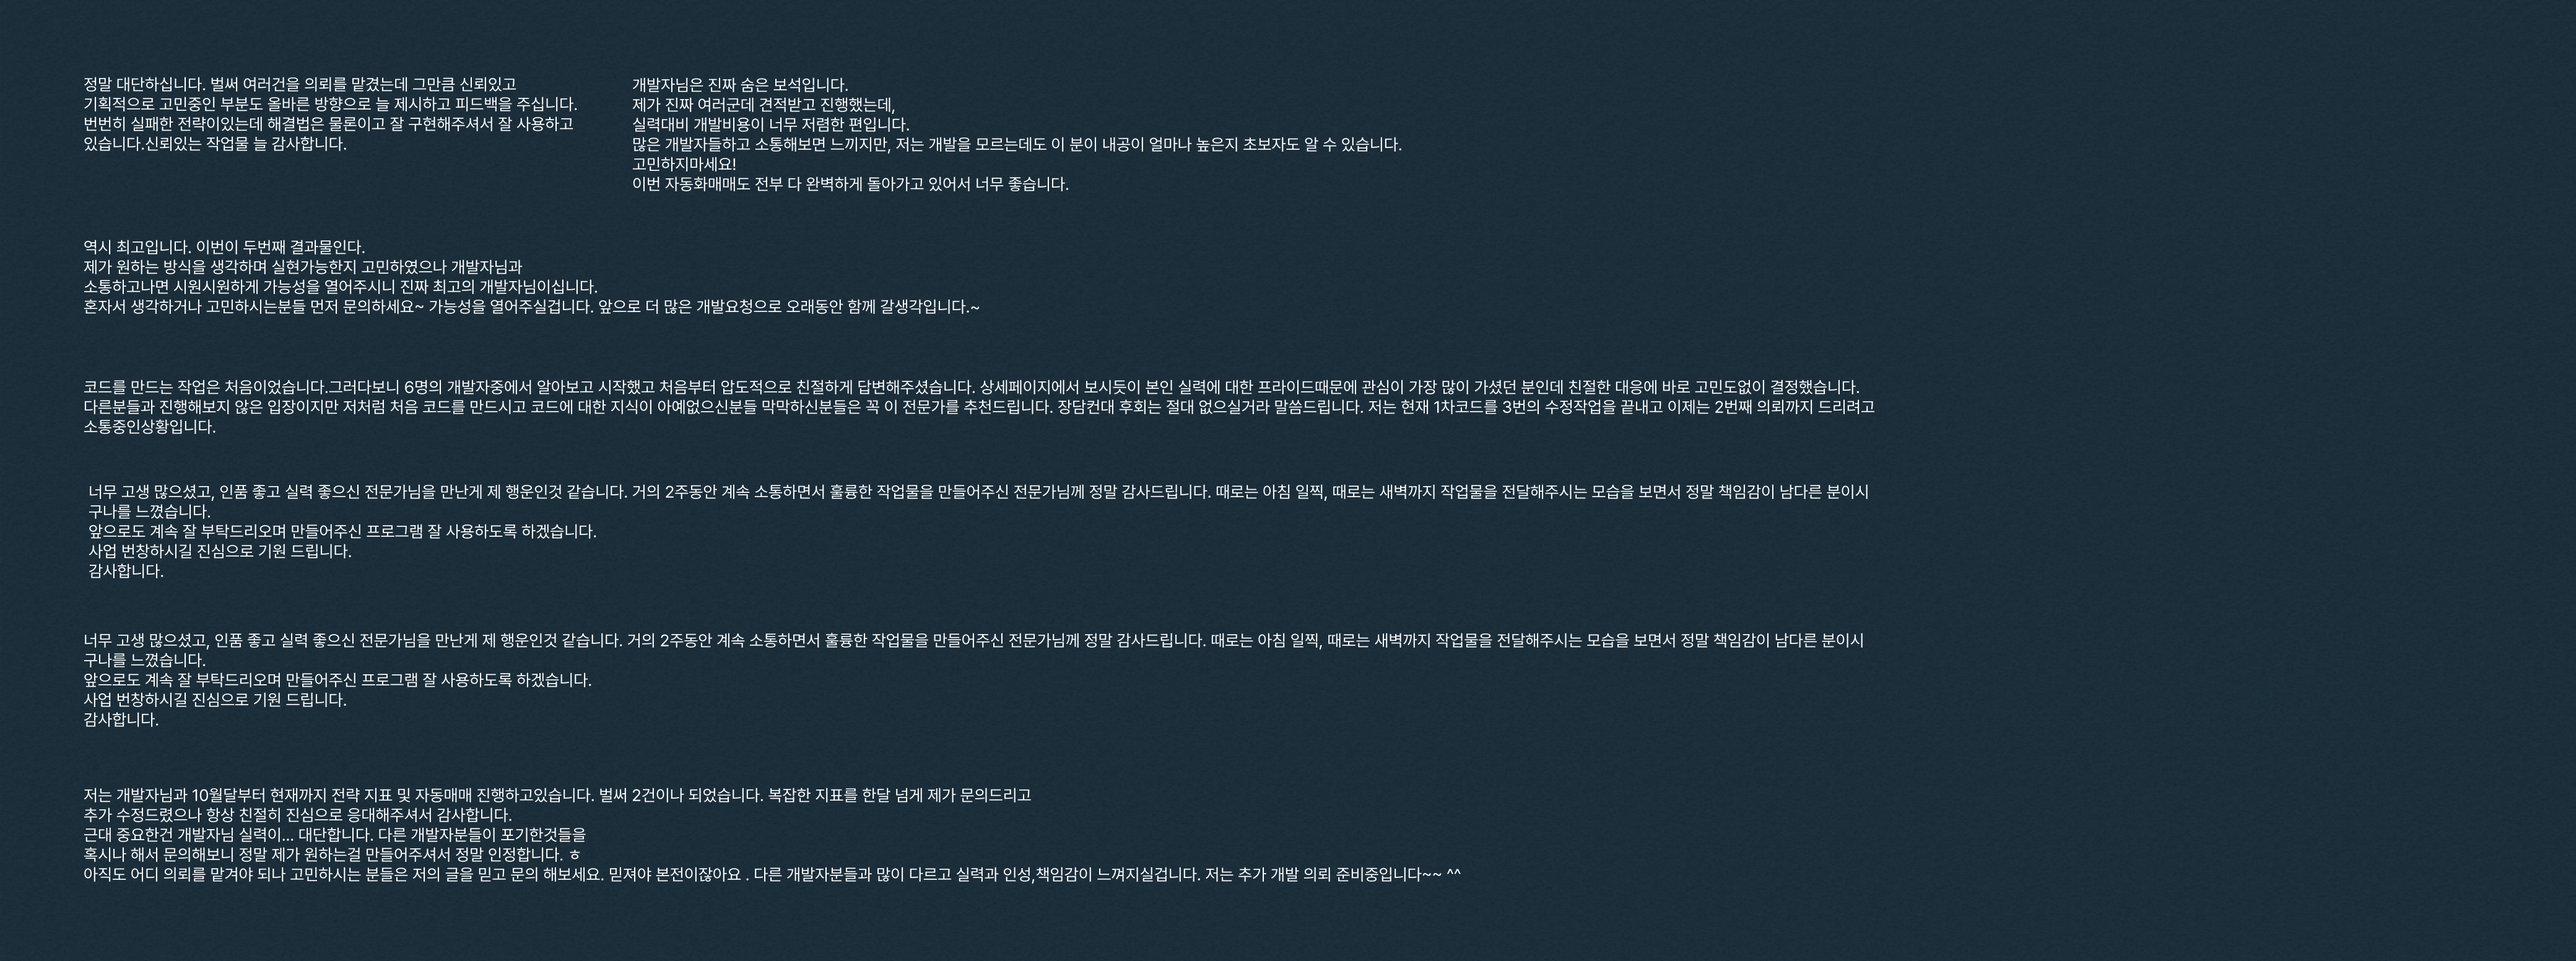
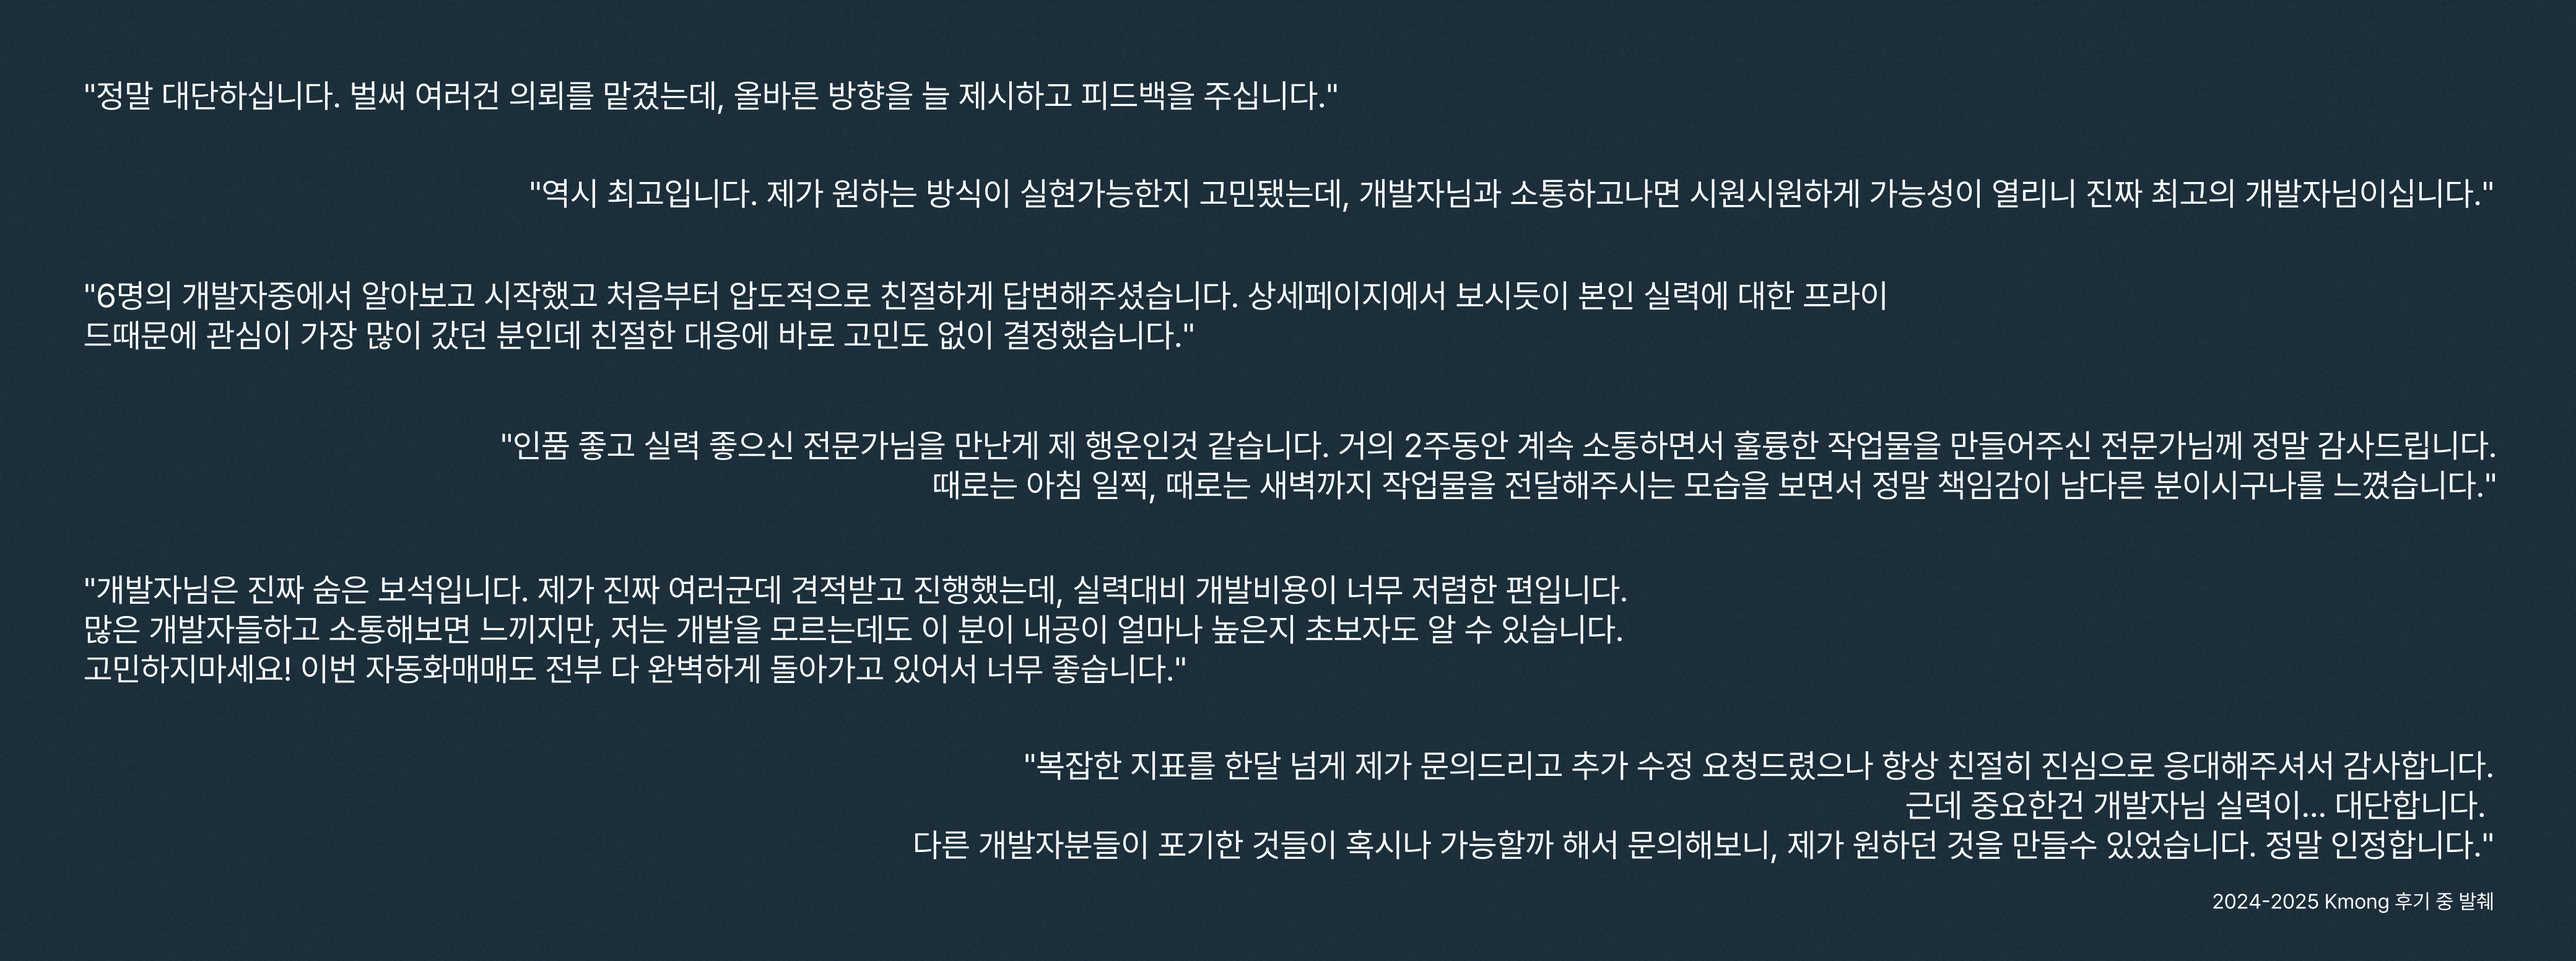
Testominal Update
v1.0

diff --git a/testominal.html b/testominal.html
@@ -27,8 +27,88 @@
 						<!-- Content -->
 							<section id="content" class="main">
 								<span class="image main"><img src="images/pic10.png" alt="" /></span>
-								<h2>작업 예시</h2>
-								<p>반갑습니다.</p>
+								<h2><b>솔루션별 작업 예시</b></h2>
+								<p>제가 제공드리는 솔루션별로 작업 예시를 제시해드리니 의뢰하실 때 참고자료로서 활용해주시면 감사드리겠습니다.</p>
+
+								<h2><b>후기</b></h2>
+								<p>수많은 의뢰자분들, 트레이더분들, 그리고 협력업체 분들이 긍정적인 후기와 함께 성원을 남겨주시고 게십니다. 길던 짧던 후기를 남겨주시는 모든 분들께 진심으로 감사드리지만, 웹페이지의 한정된 공간을 고려하여 특히 감명깊었던 몇 개의 후기를 소개하겠습니다.</p>
+
+								<blockquote style="font-style: normal;">
+									정말 대단하십니다. 벌써 여러건을 의뢰를 맡겼는데 그만큼 신뢰가 생깁니다. (프로그램이나 전략의) 기획에 관해 고민중인 부분도 늘 올바른 방향을 제시하고 피드백을 주십니다. 
+									번번히 실패한 전략이 있었는데 이를 해결해주신 것은 물론이고 추가적인 부분도 구현해주셔서 잘 사용하고 있습니다. 신뢰있는 작업물 늘 감사합니다.
+								</blockquote>
+
+								<p>감사합니다.</p>
+
+								<blockquote style="font-style: normal;">
+									역시 최고입니다. 이번이 두번째 결과물인다. 
+									제가 원하는 방식을 생각하며 실현가능한지 고민하였으나 개발자님과 
+									소통하고나면 시원시원하게 가능성을 열어주시니 진짜 최고의 개발자님이십니다. 
+									혼자서 생각하거나 고민하시는분들 먼저 문의하세요~ 가능성을 열어주실겁니다.  앞으로 더 많은 개발요청으로 오래동안 함께 갈생각입니다.~
+								</blockquote>
+
+								<p>감사합니다.</p>
+
+								<blockquote style="font-style: normal;">
+									코드를 만드는 작업은 처음이었습니다. 
+									그러다보니 6명의 개발자중에서 알아보고 시작했고 처음부터 압도적으로 친절하게 답변해주셨습니다.
+									상세페이지에서 보시듯이 본인 실력에 대한 프라이드때문에 관심이 가장 많이 가셨던 분인데 친절한 대응에 바로 고민도없이 결정했습니다.
+									다른분들과 진행해보지 않은 입장이지만 저처럼 처음 코드를 만드시고 코드에 대한 지식이 아예없으신분들 막막하신분들은 꼭 이 전문가를 추천드립니다.
+									장담컨대 후회는 절대 없으실거라 말씀드립니다.
+									저는 현재 1차코드를 3번의 수정작업을 끝내고 이제는 2번째 의뢰까지 드리려고 소통중인상황입니다.
+								</blockquote>
+
+								<p>감사합니다.</p>
+
+								<blockquote style="font-style: normal;">
+									너무 고생 많으셨고, 인품 좋고 실력 좋으신 전문가님을 만난게 제 행운인것 같습니다. 거의 2주동안 계속 소통하면서 훌륭한 작업물을 만들어주신 전문가님께 정말 감사드립니다. 때로는 아침 일찍, 때로는 새벽까지 작업물을 전달해주시는 모습을 보면서 정말 책임감이 남다른 분이시구나를 느꼈습니다. 
+									앞으로도 계속 잘 부탁드리오며 만들어주신 프로그램 잘 사용하도록 하겠습니다.
+									사업 번창하시길 진심으로 기원 드립니다.
+									감사합니다.
+								</blockquote>
+
+								<p>감사합니다.</p>
+
+								<blockquote style="font-style: normal;">
+									개발자님은 진짜 숨은 보석입니다.
+									제가 진짜 여러군데 견적받고 진행했는데,
+									실력대비 개발비용이 너무 저렴한 편입니다.
+									많은 개발자들하고 소통해보면 느끼지만, 저는 개발을 모르는데도 이 분이 내공이 얼마나 높은지 초보자도 알 수 있습니다.
+									고민하지마세요!
+									이번 자동화매매도 전부 다 완벽하게 돌아가고 있어서 너무 좋습니다.
+								</blockquote>
+
+								<p>감사합니다.</p>
+
+								<blockquote style="font-style: normal;">
+									저는 개발자님과 10월달부터 현재까지 전략 지표 및 자동매매 진행하고있습니다.  벌써 2건이나 되었습니다. 복잡한 지표를 한달 넘게 제가 문의드리고 
+									추가 수정드렸으나  항상 친절히 진심으로 응대해주셔서 감사합니다. 
+									근대 중요한건 개발자님 실력이... 대단합니다. 다른 개발자분들이 포기한것들을
+									혹시나 해서 문의해보니 정말 제가 원하는걸 만들어주셔서 정말 인정합니다. ㅎ
+									아직도 어디 의뢰를 맡겨야 되나 고민하시는 분들은 저의 글을 믿고  문의 해보세요.  믿져야  본전이잖아요 .  다른 개발자분들과 많이 다르고 실력과 인성,책임감이 느껴지실겁니다.  저는 추가 개발 의뢰 준비중입니다~~ ^^
+									감사합니다.
+								</blockquote>
+
+								<ul class="actions special">
+									<li><a href="https://kmong.com/gig/605698#22" class="button">더 많은 후기 확인하기 #1</a></li>
+									<li><a href="https://kmong.com/gig/606345#22" class="button">더 많은 후기 확인하기 #2</a></li>
+								</ul>
+							</section>
+
+														
+							<section id="contact" class="main special">
+								<header class="major">
+									<h2>의뢰하시는 곳</h2>
+									<p>작업 의뢰는 카카오톡 1:1 오픈채팅과 프리랜서 플랫폼 Kmong을 통해 진행하실 수 있습니다.</p>
+								</header>
+								<footer class="major">
+									<ul class="actions special">
+										<li><a href="https://open.kakao.com/o/sek4OfSg" class="button primary">카카오톡 오픈채팅으로 의뢰</a></li>
+										<li><a href="https://kmong.com/@CodingView#" class="button">Kmong으로 의뢰</a></li>
+										<li><a href="None" class="button">AI 챗봇으로 의뢰 (준비중)</a></li>
+									</ul>
+									<p><small>Kmong을 통하지 않고 문의하시는 경우 수수료 혜택을 누리실 수 있습니다.</small></p>
+								</footer>
 							</section>
 
 					</div>
